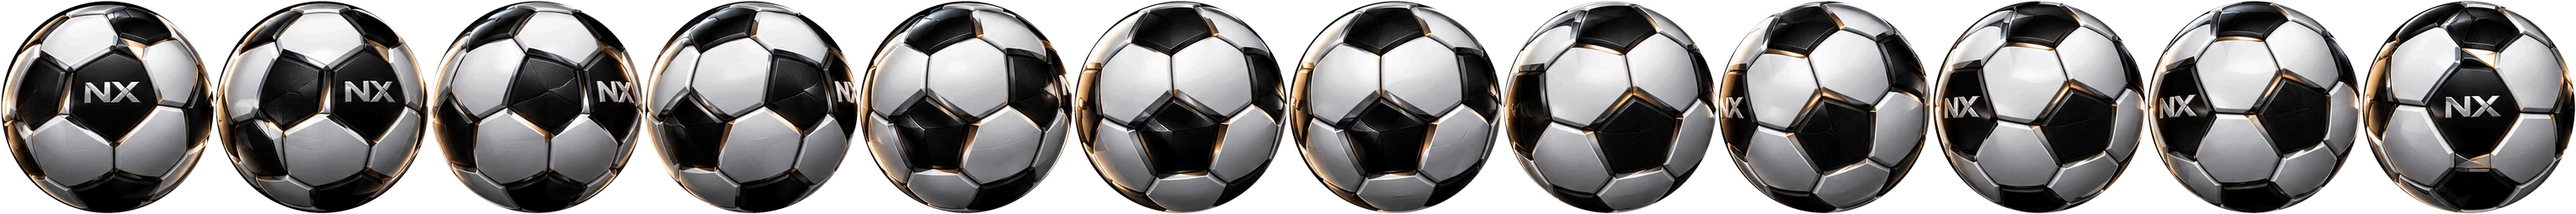
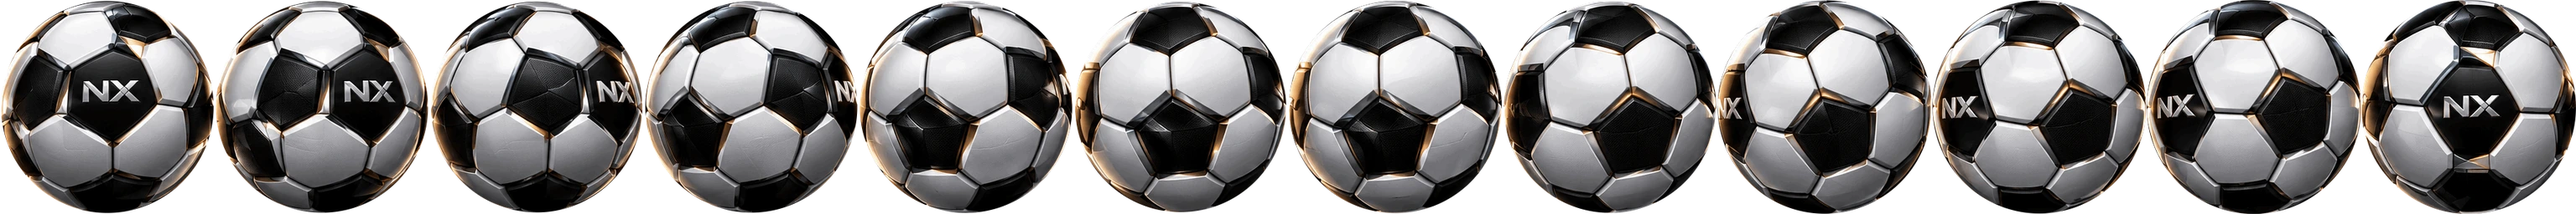
finger soccer: NX animated balls play exactly like the owner's GIFs
- nx_ball_a.webp / nx_ball_b.webp regenerated frame-for-frame from ball_nx_classic.gif (12 x 130 ms) and
  ball_nx_star.gif (9 x 180 ms): GIF order, every frame, per-frame circle fit + crop, 256 px frames, anti-aliased
  disc alpha (no black background / halo). Art untouched (no redraw). Originals kept in
  assets/games/finger_soccer/source/ (not bundled: pubspec lists only the parent directory).
- kBmAnimBalls[37].frameMs 120 -> 180 (GIF timing).
- Painter: animated balls advance by wall-clock time only (bmAnimFrame), continuous loop, one drawImageRect,
  never rotated / flipped / stretched by velocity or seat (seat 1 mirrors coordinates, not the canvas).
- Both balls are now selectable: picker and saved prefs used NB (36) and cut off balls 36/37; UI now uses
  kBmBallCount = 38. Picker shows the animated sheet (BmAnimBallPreview, cached decode, repaints only on frame
  change). No shop gating existed.
- Collision radius, engine and physics unchanged.
- test/games/finger_soccer_anim_ball_test.dart: frame counts/timings, 256 px sheet geometry, selectability,
  playback timing.

diff --git a/lib/games/finger_soccer/ui/bm_anim_ball_preview.dart b/lib/games/finger_soccer/ui/bm_anim_ball_preview.dart
@@ -1,0 +1,100 @@
+// Small looping preview of an animated sprite-sheet ball (ball picker / shop). Plays exactly like the owner's GIF:
+// frames in order at the GIF's own frame time, upright, never rotated. Cheap: the sheet is decoded once (cached,
+// downscaled), and the painter repaints only when the frame index changes (one drawImageRect).
+import 'dart:async';
+import 'dart:ui' as ui;
+
+import 'package:flutter/scheduler.dart';
+import 'package:flutter/services.dart';
+import 'package:flutter/widgets.dart';
+
+import '../core/bm_data.dart';
+
+class BmAnimBallPreview extends StatefulWidget {
+  const BmAnimBallPreview({super.key, required this.ball, this.framePx = 112});
+
+  final BmAnimBall ball;
+
+  /// Decoded size of one frame (the sheet is decoded at frames * framePx wide).
+  final int framePx;
+
+  @override
+  State<BmAnimBallPreview> createState() => _BmAnimBallPreviewState();
+}
+
+class _BmAnimBallPreviewState extends State<BmAnimBallPreview> with SingleTickerProviderStateMixin {
+  static final Map<String, Future<ui.Image?>> _cache = <String, Future<ui.Image?>>{};
+
+  late final Ticker _ticker = createTicker(_tick);
+  final ValueNotifier<int> _frame = ValueNotifier<int>(0);
+  ui.Image? _sheet;
+
+  static Future<ui.Image?> _load(String path, int width) {
+    return _cache.putIfAbsent('$path@$width', () async {
+      try {
+        final ByteData data = await rootBundle.load(path);
+        final ui.Codec codec = await ui.instantiateImageCodec(data.buffer.asUint8List(), targetWidth: width);
+        final ui.FrameInfo f = await codec.getNextFrame();
+        codec.dispose();
+        return f.image;
+      } catch (_) {
+        return null;
+      }
+    });
+  }
+
+  @override
+  void initState() {
+    super.initState();
+    unawaited(_init());
+  }
+
+  Future<void> _init() async {
+    final ui.Image? im = await _load(widget.ball.sheet, widget.ball.frames * widget.framePx);
+    if (!mounted || im == null) return;
+    setState(() => _sheet = im);
+    _ticker.start();
+  }
+
+  void _tick(Duration elapsed) {
+    final int f = bmAnimFrame(elapsed.inMicroseconds / 1000, widget.ball.frameMs, widget.ball.frames);
+    if (f != _frame.value) _frame.value = f;
+  }
+
+  @override
+  void dispose() {
+    _ticker.dispose();
+    _frame.dispose();
+    super.dispose();
+  }
+
+  @override
+  Widget build(BuildContext context) {
+    final ui.Image? sheet = _sheet;
+    if (sheet == null) return const SizedBox.expand();
+    return RepaintBoundary(
+      child: AspectRatio(
+        aspectRatio: 1,
+        child: CustomPaint(painter: _SheetPainter(sheet, widget.ball.frames, _frame)),
+      ),
+    );
+  }
+}
+
+class _SheetPainter extends CustomPainter {
+  _SheetPainter(this.sheet, this.frames, this.frame) : super(repaint: frame);
+
+  final ui.Image sheet;
+  final int frames;
+  final ValueNotifier<int> frame;
+
+  @override
+  void paint(Canvas canvas, Size size) {
+    final double fw = sheet.width / frames;
+    canvas.drawImageRect(sheet, Rect.fromLTWH(frame.value * fw, 0, fw, sheet.height.toDouble()), Offset.zero & size,
+        Paint()..filterQuality = FilterQuality.medium);
+  }
+
+  @override
+  bool shouldRepaint(_SheetPainter old) => old.sheet != sheet || old.frames != frames;
+}

diff --git a/lib/games/finger_soccer/ui/bm_painter.dart b/lib/games/finger_soccer/ui/bm_painter.dart
@@ -11,11 +11,11 @@ import 'bm_ball.dart';
 
 class BmImages {
   ui.Image? field, goal, ball;
-  // Animated sprite-sheet ball (kBmAnimBalls): frames advance with distance rolled + a slow idle spin.
+  // Animated sprite-sheet ball (kBmAnimBalls): plays exactly like the owner's GIF — frames in order at the GIF's own
+  // frame time, continuously, never rotated/flipped/stretched by velocity or seat.
   ui.Image? ballSheet;
   int ballFrames = 0;
-  int ballFrameMs = 120;
-  double animPhase = 0, animX = double.nan, animY = double.nan, animT = 0;
+  int ballFrameMs = 130;
   final List<ui.Image?> team = <ui.Image?>[null, null];
   BmBallRenderer? ballR;
   // cached background (blurred cover + faded field), keyed by size/field
@@ -227,30 +227,24 @@ class BmPainter extends CustomPainter {
       canvas.drawOval(Rect.fromCenter(center: Offset(b.x + so * .35, b.y + so), width: b.r * .86 * 2, height: b.r * .34 * 2),
           Paint()..color = _rgba(8, 14, 24, .42 * .8));
       canvas.translate(b.x, b.y);
+      final ui.Image? sheet = im.ballSheet;
+      final ui.Image? rendered = br?.image;
+      if (sheet != null && im.ballFrames > 0) {
+        // GIF playback: frame = elapsed / frameMs (wall clock), one drawImageRect, sprite kept upright.
+        final int fi = bmAnimFrame(t, im.ballFrameMs, im.ballFrames);
+        final double fw = sheet.width / im.ballFrames;
+        canvas.drawImageRect(sheet, Rect.fromLTWH(fi * fw, 0, fw, sheet.height.toDouble()), dst,
+            Paint()..filterQuality = FilterQuality.medium);
+        canvas.restore();
+        return;
+      }
       if (sv > 40) {
         final double a = math.atan2(b.vy, b.vx), st = math.min(.16, fast * .12) + b.sq * .12, sq = b.sq * .1;
         canvas.rotate(a);
         canvas.scale(1 + st - sq, 1 - st * .55 + sq);
         canvas.rotate(-a);
       }
-      final ui.Image? sheet = im.ballSheet;
-      final ui.Image? rendered = br?.image;
-      if (sheet != null && im.ballFrames > 0) {
-        // distance-driven roll (one frame per ~0.45 radius) + idle spin at a quarter of the GIF speed
-        if (!im.animX.isNaN) {
-          final double dx = b.x - im.animX, dy = b.y - im.animY;
-          im.animPhase += math.sqrt(dx * dx + dy * dy) / (b.r * .45);
-        }
-        if (im.animT > 0) im.animPhase += (t - im.animT).clamp(0, 100) / (im.ballFrameMs * 4);
-        im.animX = b.x;
-        im.animY = b.y;
-        im.animT = t;
-        final int fi = im.animPhase.floor() % im.ballFrames;
-        final double fw = sheet.width / im.ballFrames;
-        if (sv > 40) canvas.rotate(math.atan2(b.vy, b.vx) + math.pi / 2);
-        canvas.drawImageRect(sheet, Rect.fromLTWH(fi * fw, 0, fw, sheet.height.toDouble()), dst,
-            Paint()..filterQuality = FilterQuality.medium);
-      } else if (rendered != null) {
+      if (rendered != null) {
         canvas.drawImageRect(rendered, Rect.fromLTWH(0, 0, rendered.width.toDouble(), rendered.height.toDouble()), dst,
             Paint()..filterQuality = FilterQuality.medium);
       } else {

diff --git a/lib/games/finger_soccer/ui/bm_view.dart b/lib/games/finger_soccer/ui/bm_view.dart
@@ -13,6 +13,7 @@ import 'package:shared_preferences/shared_preferences.dart';
 import 'package:nexora/games/core/game_contract.dart';
 import '../core/bm_data.dart';
 import '../core/bm_engine.dart';
+import 'bm_anim_ball_preview.dart';
 import 'bm_audio.dart';
 import 'bm_ball.dart';
 import 'bm_painter.dart';
@@ -53,7 +54,7 @@ class _Setup {
         t,
         i('form').clamp(0, kBmForms.length - 1).toInt(),
         i('field').clamp(0, kBmFields.length - 1).toInt(),
-        i('ball').clamp(0, NB - 1).toInt());
+        i('ball').clamp(0, kBmBallCount - 1).toInt());
   }
 }
 
@@ -134,7 +135,7 @@ class _BermudaViewState extends State<BermudaView>
           kBmTeams.any((BmTeam x) => x.id == t) ? t : 'club0',
           (p.getInt('bm.form') ?? 0).clamp(0, kBmForms.length - 1).toInt(),
           (p.getInt('bm.field') ?? 0).clamp(0, kBmFields.length - 1).toInt(),
-          (p.getInt('bm.ball') ?? 0).clamp(0, NB - 1).toInt());
+          (p.getInt('bm.ball') ?? 0).clamp(0, kBmBallCount - 1).toInt());
       _cat = math.max(0,
           kBmCats.indexWhere((List<Object> c) => c[0] == bmTeam(my.team).cat));
       audio.announcer = p.getBool('bm.ann') ??
@@ -1424,7 +1425,7 @@ class _BermudaViewState extends State<BermudaView>
                           height: 98,
                           child: ListView.builder(
                             scrollDirection: Axis.horizontal,
-                            itemCount: NB,
+                            itemCount: kBmBallCount,
                             itemBuilder: (BuildContext c, int i) {
                               final bool on = my.ball == i;
                               return GestureDetector(
@@ -1454,9 +1455,12 @@ class _BermudaViewState extends State<BermudaView>
                                   child: Column(
                                     children: <Widget>[
                                       Expanded(
-                                          child: Image.asset(
-                                              '${_a}balls/b$i.webp',
-                                              cacheWidth: 112)),
+                                          child: kBmAnimBalls[i] != null
+                                              ? BmAnimBallPreview(
+                                                  ball: kBmAnimBalls[i]!)
+                                              : Image.asset(
+                                                  '${_a}balls/b$i.webp',
+                                                  cacheWidth: 112)),
                                       Text(kBmBallN[i],
                                           maxLines: 1,
                                           overflow: TextOverflow.ellipsis,

diff --git a/lib/games/finger_soccer/core/bm_data.dart b/lib/games/finger_soccer/core/bm_data.dart
@@ -112,8 +112,19 @@ const List<String> kBmTRN = <String>["Bolt", "Prism", "Wave", "Starlight", "Smok
 
 const List<String> kBmBallN = <String>["Bolt", "Prism", "Wave", "Starlight", "Classic", "Rainbow", "Neon", "Yin", "Fire", "Blade", "Ghost", "Ember", "Plasma", "Noir Copper", "Space Modern", "Purple Sky", "Black Lux", "Electron", "Cobalt Gold", "Aurora", "Crimson", "Teal Storm", "Royal Gold", "Gold Rush", "Classic Red", "Luxury", "Noir Chrome", "Violet Strike", "Emerald Edge", "Royal Blue Gold", "Crimson Noir", "Blaze Orange", "Aqua Wave", "Sunset Pro", "Elite Cobalt", "Crown Luxury", "NX Spin", "NX Final"];
 
-/// Animated sprite-sheet balls (owner GIFs, frames side by side, 256 px each). Collision radius is unchanged:
+/// Animated sprite-sheet balls, generated frame-for-frame from the owner's GIFs
+/// (`assets/games/finger_soccer/source/*.gif`, not bundled): every frame in GIF order, cropped to the ball circle,
+/// 256 px per frame, side by side. `frameMs` is the GIF's own frame duration. Collision radius is unchanged:
 /// they are drawn at the same BR as every other ball.
+/// Number of selectable match balls: the 36 classic balls (engine `NB`) + the two animated NX balls (36, 37).
+const int kBmBallCount = 38;
+
+/// GIF playback: index of the frame shown at [ms] (any monotonic clock) for a sheet of [frames] at [frameMs] each.
+int bmAnimFrame(double ms, int frameMs, int frames) {
+  if (frames <= 0 || frameMs <= 0 || ms.isNaN || ms < 0) return 0;
+  return (ms / frameMs).floor() % frames;
+}
+
 class BmAnimBall {
   const BmAnimBall(this.sheet, this.frames, this.frameMs);
   final String sheet;
@@ -123,7 +134,7 @@ class BmAnimBall {
 
 const Map<int, BmAnimBall> kBmAnimBalls = <int, BmAnimBall>{
   36: BmAnimBall('assets/games/finger_soccer/nx_ball_a.webp', 12, 130),
-  37: BmAnimBall('assets/games/finger_soccer/nx_ball_b.webp', 9, 120),
+  37: BmAnimBall('assets/games/finger_soccer/nx_ball_b.webp', 9, 180),
 };
 
 class BmFa {

diff --git a/test/games/finger_soccer_anim_ball_test.dart b/test/games/finger_soccer_anim_ball_test.dart
@@ -1,0 +1,51 @@
+import 'dart:io';
+import 'dart:typed_data';
+
+import 'package:flutter_test/flutter_test.dart';
+import 'package:nexora/games/finger_soccer/core/bm_data.dart';
+import 'package:nexora/games/finger_soccer/core/bm_engine.dart';
+
+/// Canvas size of a VP8X (extended, with alpha) WebP file.
+List<int> _webpSize(String path) {
+  final Uint8List b = File(path).readAsBytesSync();
+  expect(String.fromCharCodes(b.sublist(0, 4)), 'RIFF');
+  expect(String.fromCharCodes(b.sublist(12, 16)), 'VP8X');
+  int u24(int o) => b[o] | (b[o + 1] << 8) | (b[o + 2] << 16);
+  return <int>[u24(24) + 1, u24(27) + 1];
+}
+
+void main() {
+  test('animated balls use the GIF frame counts and exact GIF frame times', () {
+    expect(kBmAnimBalls[36]!.frames, 12);
+    expect(kBmAnimBalls[36]!.frameMs, 130);
+    expect(kBmAnimBalls[37]!.frames, 9);
+    expect(kBmAnimBalls[37]!.frameMs, 180);
+  });
+
+  test('sheets are 256 px per frame, one frame per GIF frame', () {
+    for (final BmAnimBall a in kBmAnimBalls.values) {
+      final List<int> wh = _webpSize(a.sheet);
+      expect(wh[1], 256, reason: a.sheet);
+      expect(wh[0], 256 * a.frames, reason: a.sheet);
+    }
+  });
+
+  test('both animated balls are selectable', () {
+    expect(kBmBallCount, NB + 2);
+    expect(kBmBallN.length, greaterThanOrEqualTo(kBmBallCount));
+    for (final int i in kBmAnimBalls.keys) {
+      expect(i, lessThan(kBmBallCount));
+      expect(File('assets/games/bermuda/balls/b$i.webp').existsSync(), isTrue);
+    }
+  });
+
+  test('playback follows wall-clock time in GIF order and loops', () {
+    expect(bmAnimFrame(0, 130, 12), 0);
+    expect(bmAnimFrame(129.9, 130, 12), 0);
+    expect(bmAnimFrame(130, 130, 12), 1);
+    expect(bmAnimFrame(130.0 * 11, 130, 12), 11);
+    expect(bmAnimFrame(130.0 * 12, 130, 12), 0);
+    expect(bmAnimFrame(180.0 * 10, 180, 9), 1);
+    expect(bmAnimFrame(-5, 180, 9), 0);
+  });
+}
